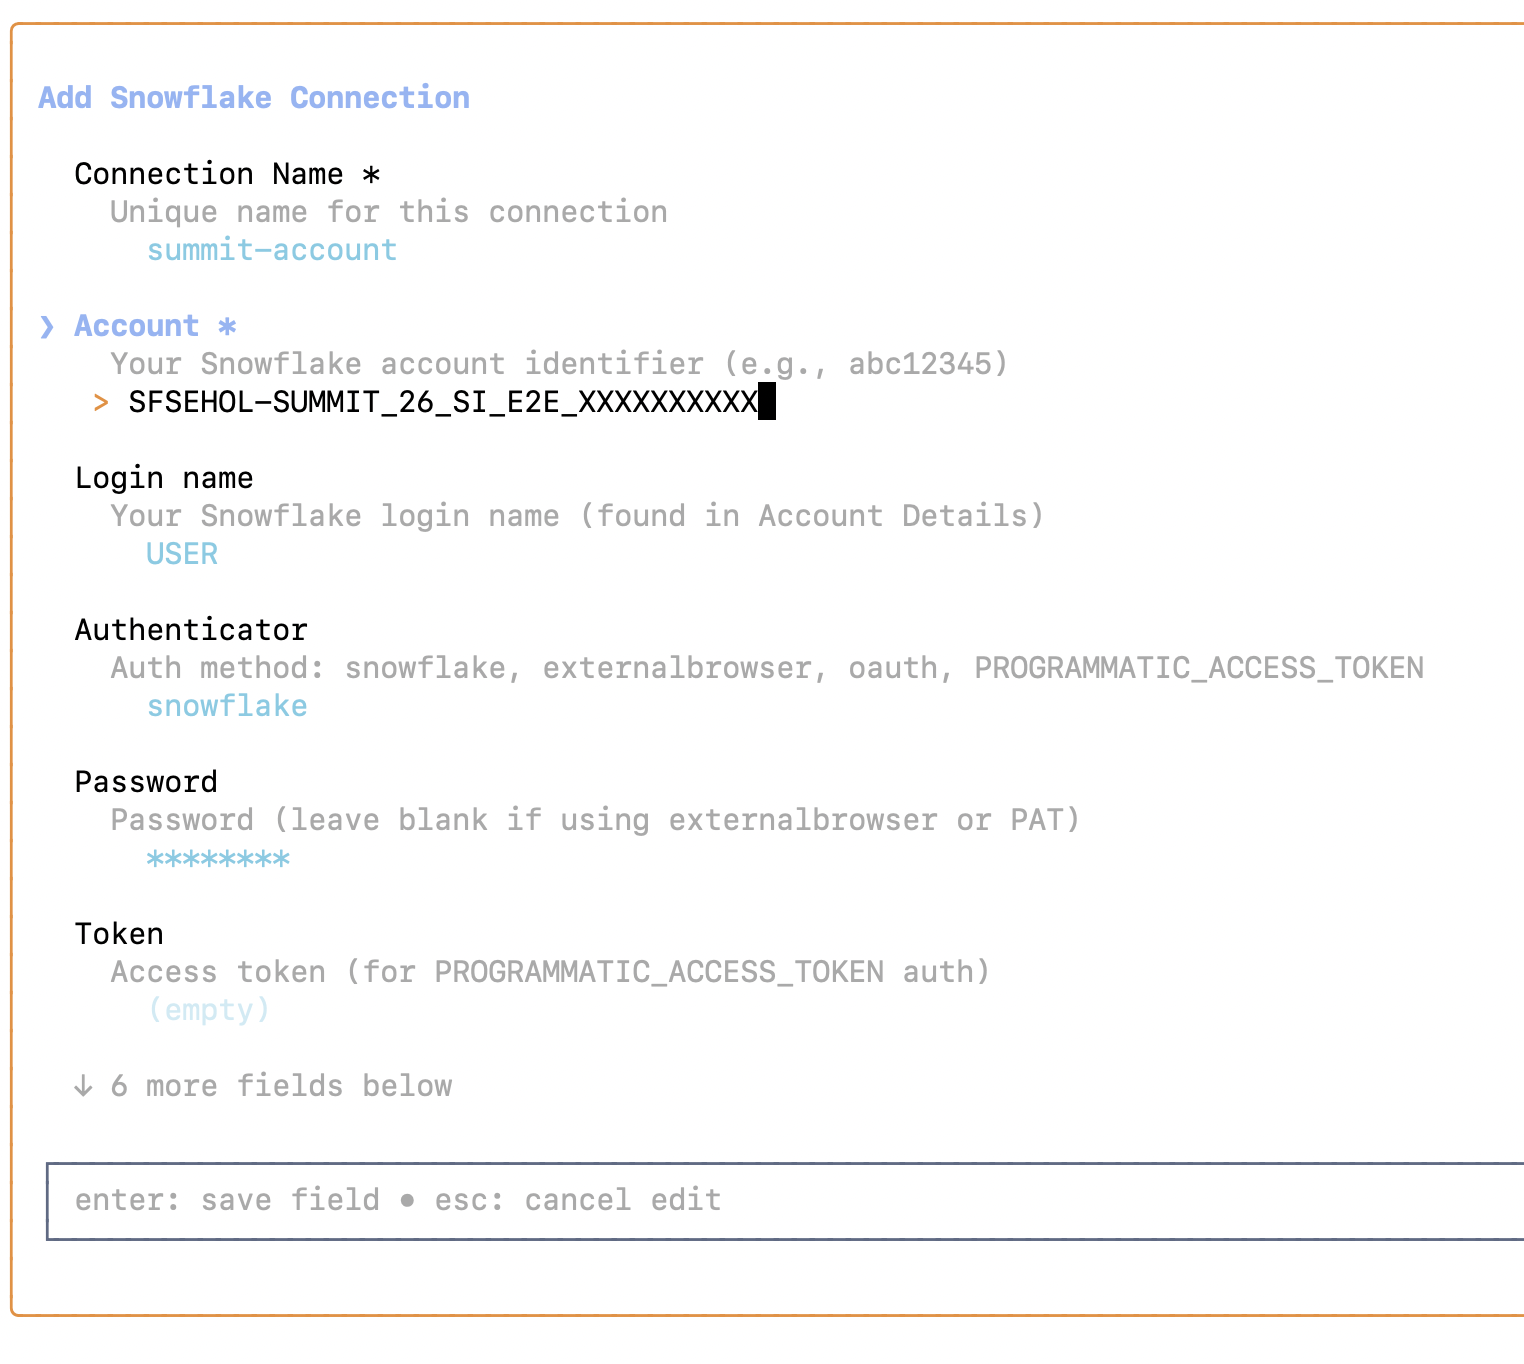
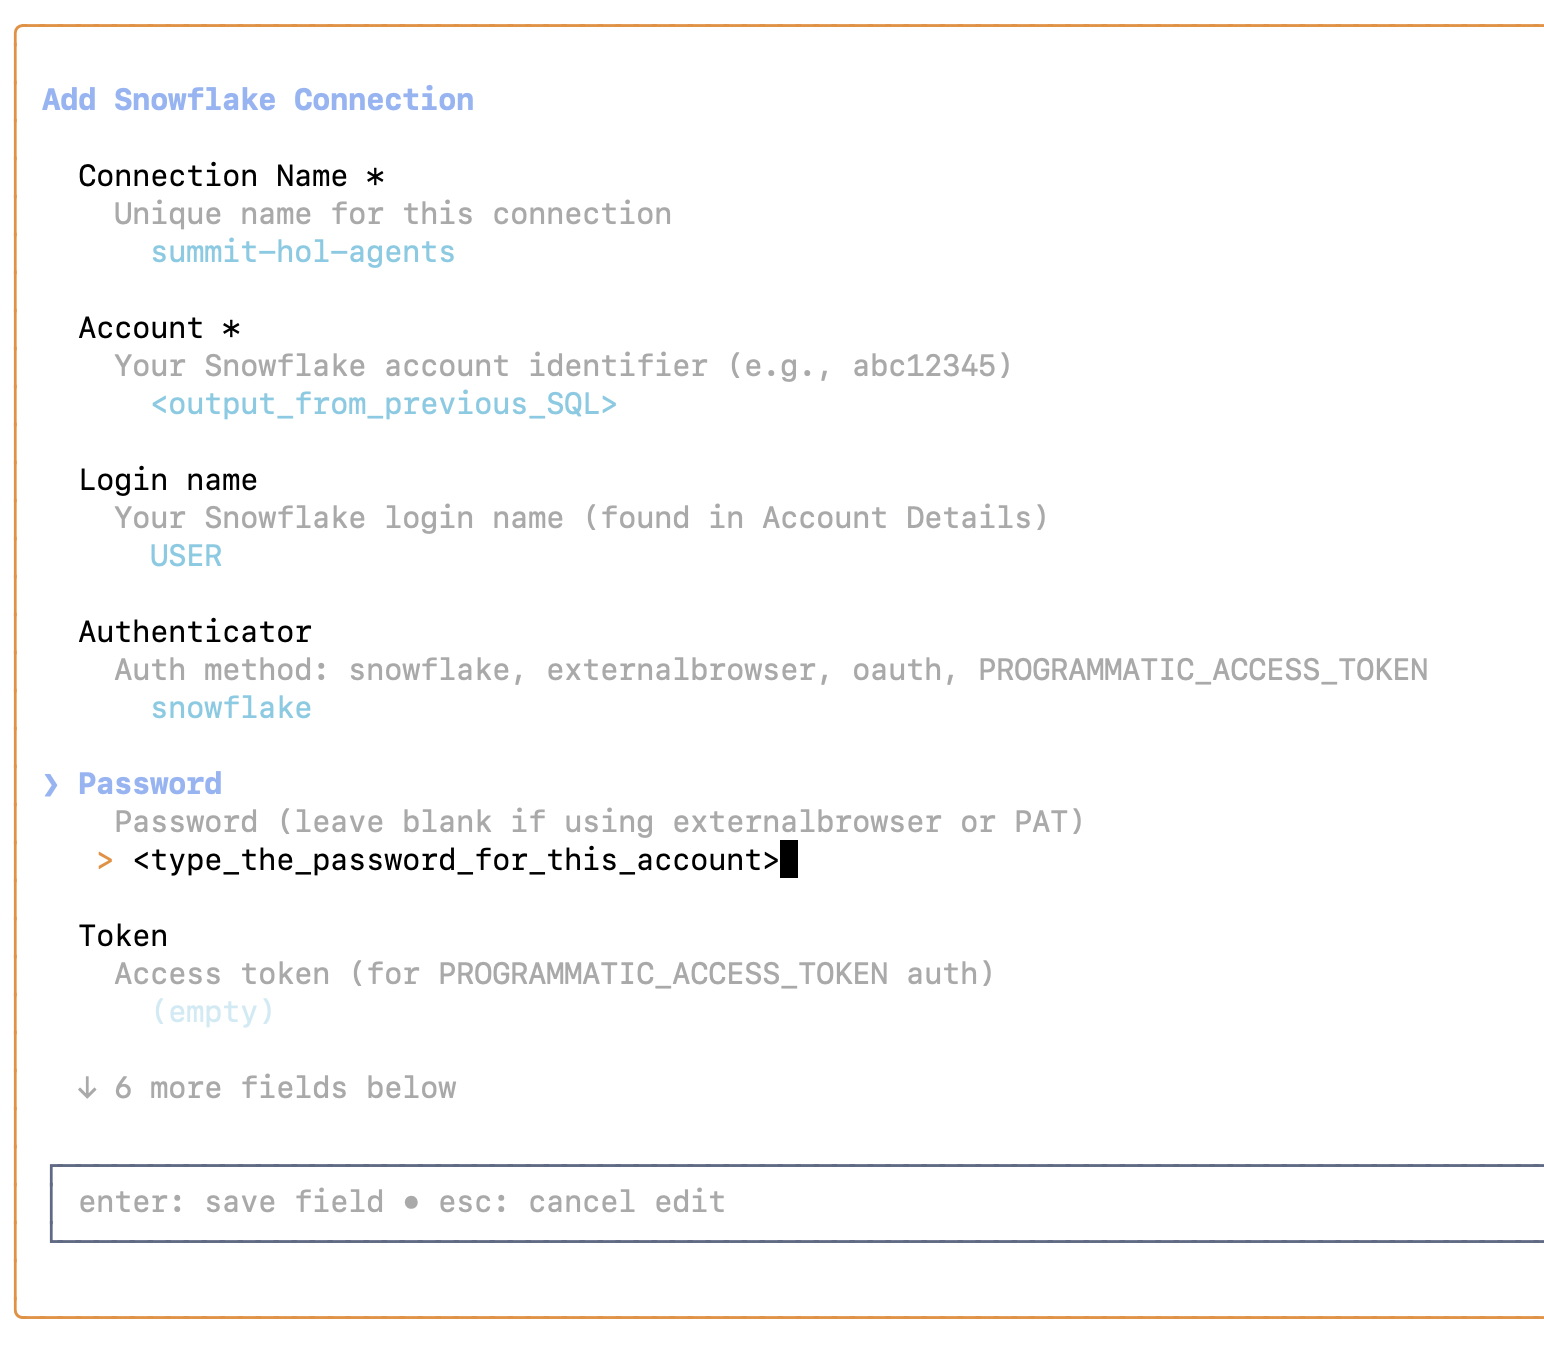
small fixes

diff --git a/README.md b/README.md
@@ -79,7 +79,7 @@ As you will be connecting to a demo account provisioned for you during this lab,
 You can get your account name running this command:
 
 ```code
-SELECT CURRENT_ACCOUNT_NAME();
+SELECT CURRENT_ORGANIZATION_NAME() || '-' || CURRENT_ACCOUNT_NAME();
 ```
 
 If you have already used CoCo, you want the Agent Connection and SQL Connection to leverage the Snowflake account you are using for this lab. Run cortex and type /connections and add a new one:
